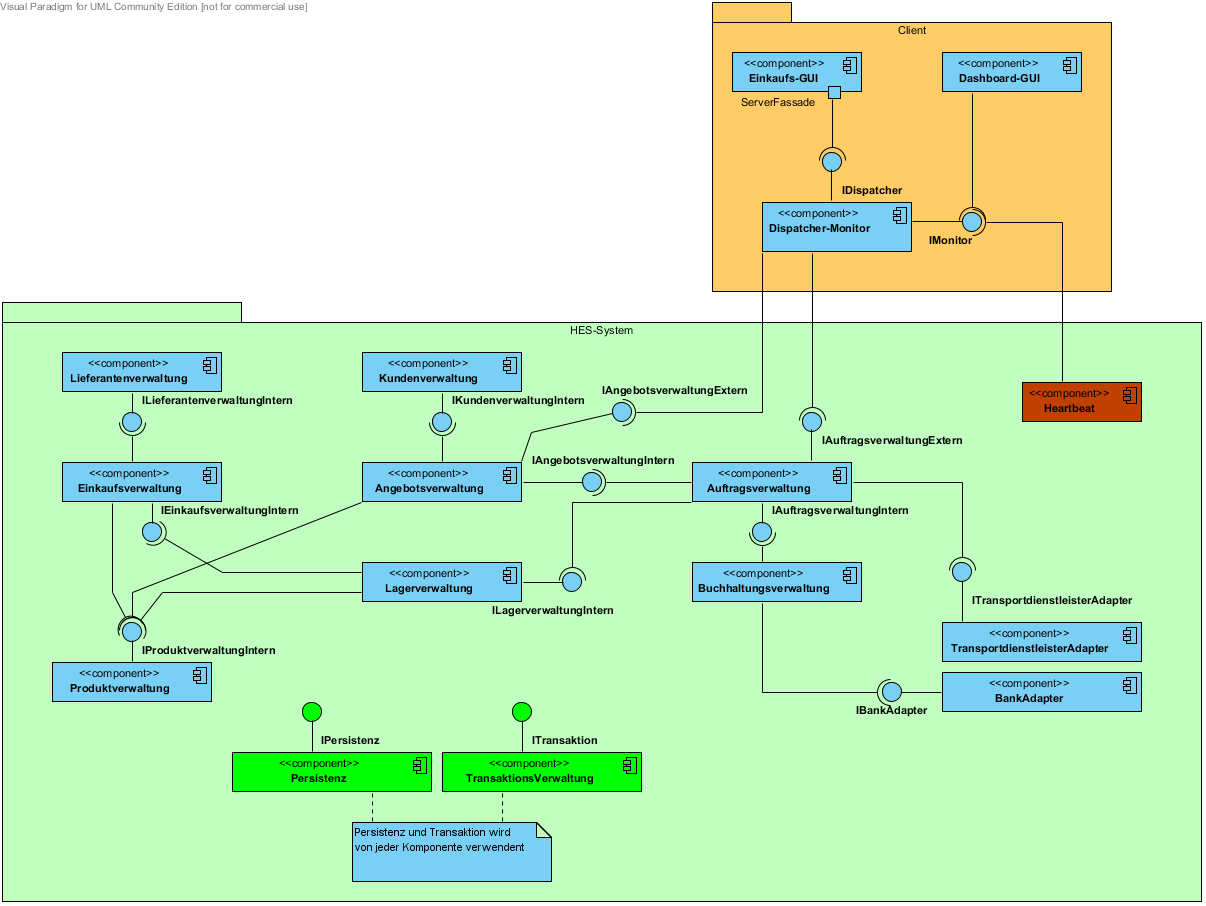
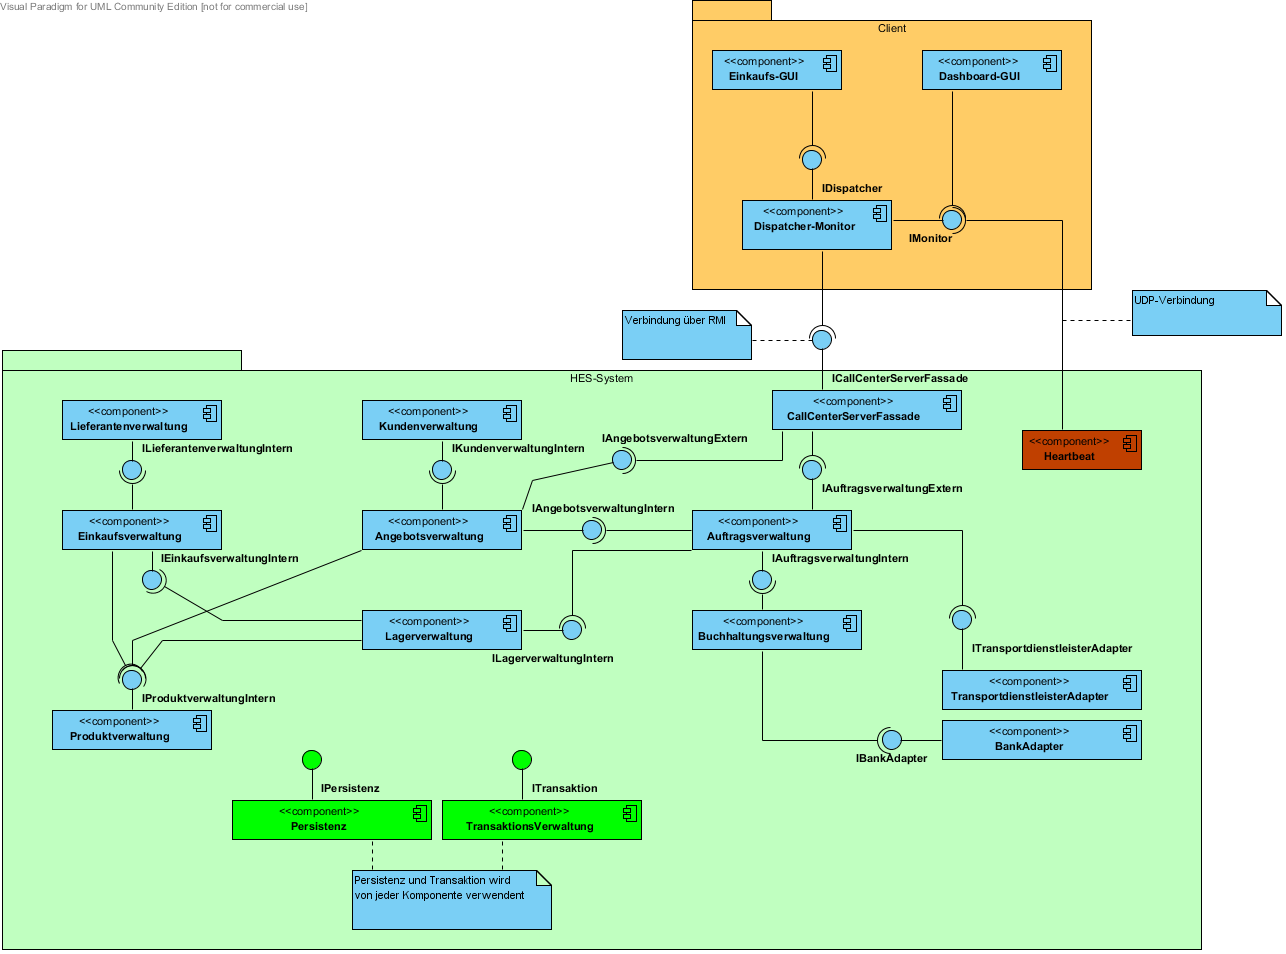
updated interfaces for a4

Changed region(s): [[0.0, 0.0, 1.0, 1.0], [0.0, 0.0, 0.2454, 0.0309]]

diff --git a/src/adapter/TransportdienstleisterAdapter.java b/src/adapter/TransportdienstleisterAdapter.java
@@ -4,14 +4,15 @@ import interfaces.ILieferung;
 import interfaces.ITransportauftrag;
 import komponentenInterfaces.intern.ITransportdienstleisterAdapter;
 
-/**
- * User: Matthias
- * Date: 22.04.13
- * Time: 20:15
- */
+import com.rabbitmq.client.ConnectionFactory;
+import com.rabbitmq.client.Connection;
+import com.rabbitmq.client.Channel;
+import com.rabbitmq.client.MessageProperties;
+
+// TODO - RabbitMQ receive()
 public class TransportdienstleisterAdapter implements ITransportdienstleisterAdapter {
     @Override
-    public ITransportauftrag erstelleTransportauftrag(int transportauftragsNummer, String transportdienstleister, ILieferung lieferung) {
-        return null;
+    public void verschickeTransportauftrag(ILieferung lieferung) {
+        // TODO
     }
 }

diff --git a/src/adapter/BankAdapter.java b/src/adapter/BankAdapter.java
@@ -1,13 +1,12 @@
 package adapter;
 
+import interfaces.IZahlungseingang;
 import komponentenInterfaces.intern.IBankAdapter;
 
-/**
- * Created with IntelliJ IDEA.
- * User: aaz527
- * Date: 19.04.13
- * Time: 13:31
- * To change this template use File | Settings | File Templates.
- */
+// TODO - Jersey sendToTDL()
 public class BankAdapter implements IBankAdapter {
+    @Override
+    public IZahlungseingang getNaechstenZahlungseingang() {
+        return null;  // TODO
+    }
 }

diff --git a/src/gui/SystemRunner.java b/src/gui/SystemRunner.java
@@ -25,9 +25,6 @@ import java.util.ArrayList;
 import java.util.Date;
 import java.util.GregorianCalendar;
 
-/**
- * TODO UDP-Heartbeat
- */
 public class SystemRunner {
     public static void main(String[] args) throws RemoteException, MalformedURLException {
 
@@ -67,8 +64,6 @@ public class SystemRunner {
         }
 
         // --- SIMULATING SOME STUFF ---
-
-        // TODO
         /*
         Kunde erstellen
         Angebot erstellen

diff --git a/src/komponentenInterfaces/intern/ITransportdienstleisterAdapter.java b/src/komponentenInterfaces/intern/ITransportdienstleisterAdapter.java
@@ -9,5 +9,5 @@ import interfaces.ITransportauftrag;
  * Time: 21:05
  */
 public interface ITransportdienstleisterAdapter {
-    ITransportauftrag erstelleTransportauftrag(int transportauftragsNummer, String transportdienstleister, ILieferung lieferung);
+    void verschickeTransportauftrag(ILieferung lieferung);
 }

diff --git a/src/komponentenInterfaces/intern/IBankAdapter.java b/src/komponentenInterfaces/intern/IBankAdapter.java
@@ -1,9 +1,13 @@
 package komponentenInterfaces.intern;
 
+import interfaces.IRechnung;
+import interfaces.IZahlungseingang;
+
 /**
  * User: Matthias
  * Date: 22.04.13
  * Time: 21:05
  */
 public interface IBankAdapter {
+    IZahlungseingang getNaechstenZahlungseingang();
 }

diff --git a/src/hapsar/hapsarConsole.java b/src/hapsar/hapsarConsole.java
@@ -1,0 +1,9 @@
+package hapsar;
+
+/**
+ *
+ */
+public class HAPSARConsole {
+    // TODO - main() + console -> writeToQueue() [publish]
+    // https://github.com/rabbitmq/rabbitmq-tutorials/tree/master/java
+}

diff --git a/src/tdl/TDLRunner.java b/src/tdl/TDLRunner.java
@@ -1,0 +1,9 @@
+package tdl;
+
+/**
+ *
+ */
+public class TDLRunner {
+    // TODO - main() - rcv von Jersey
+    // https://jersey.java.net/nonav/documentation/latest/client.html
+}
